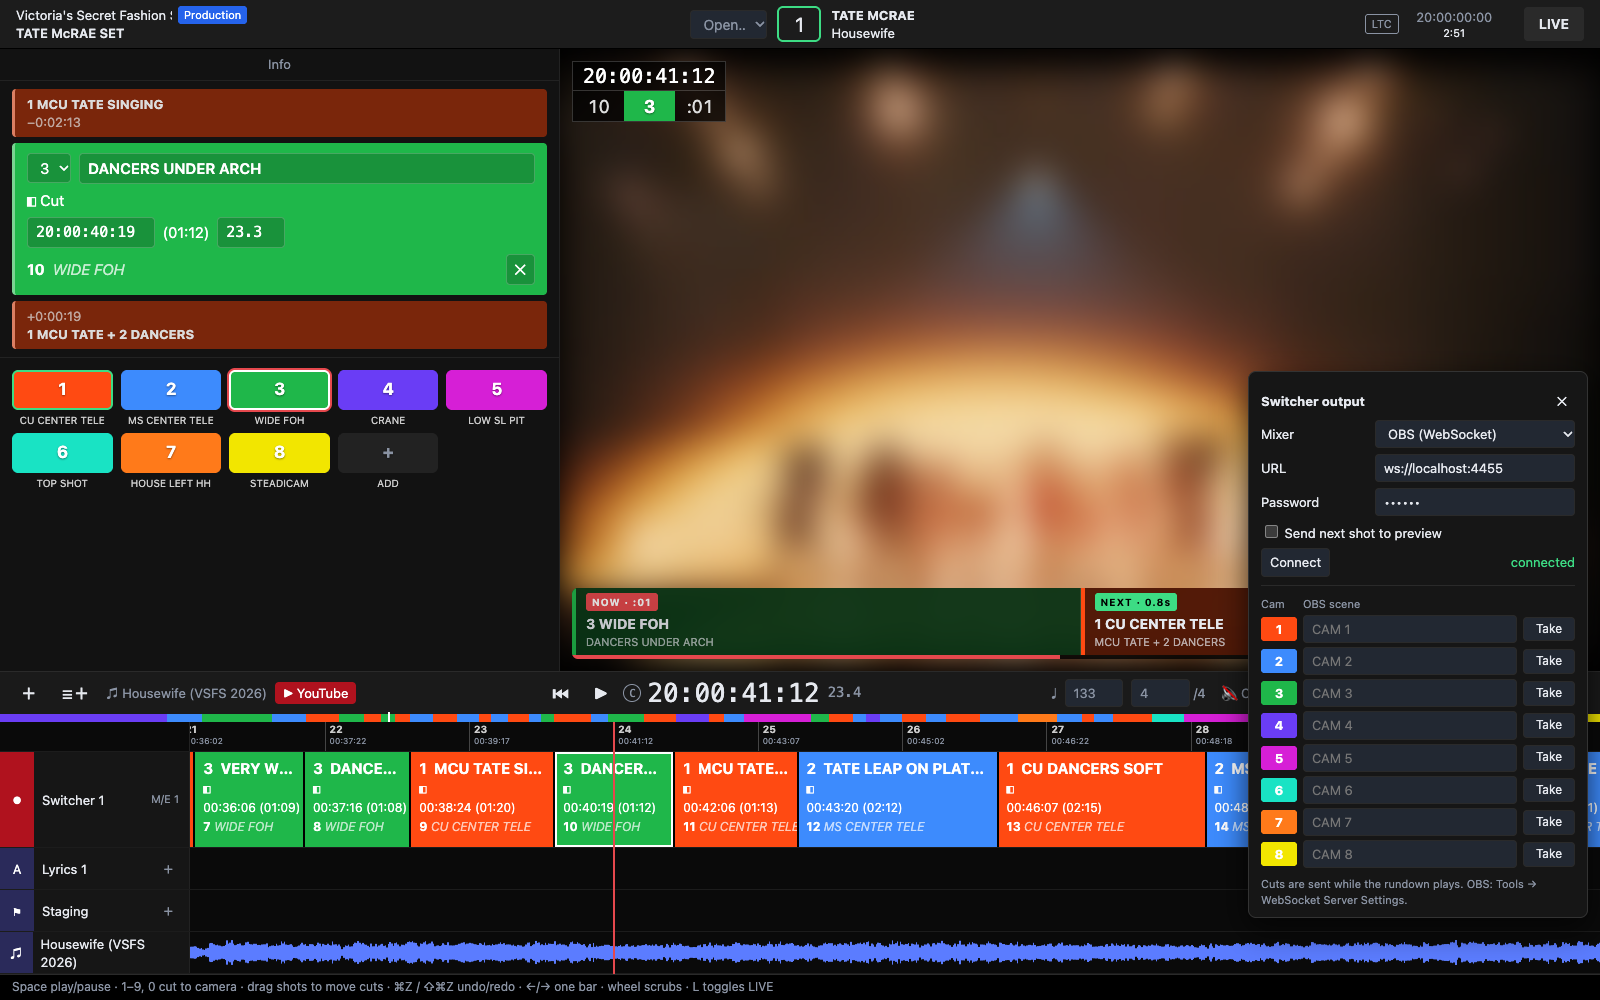
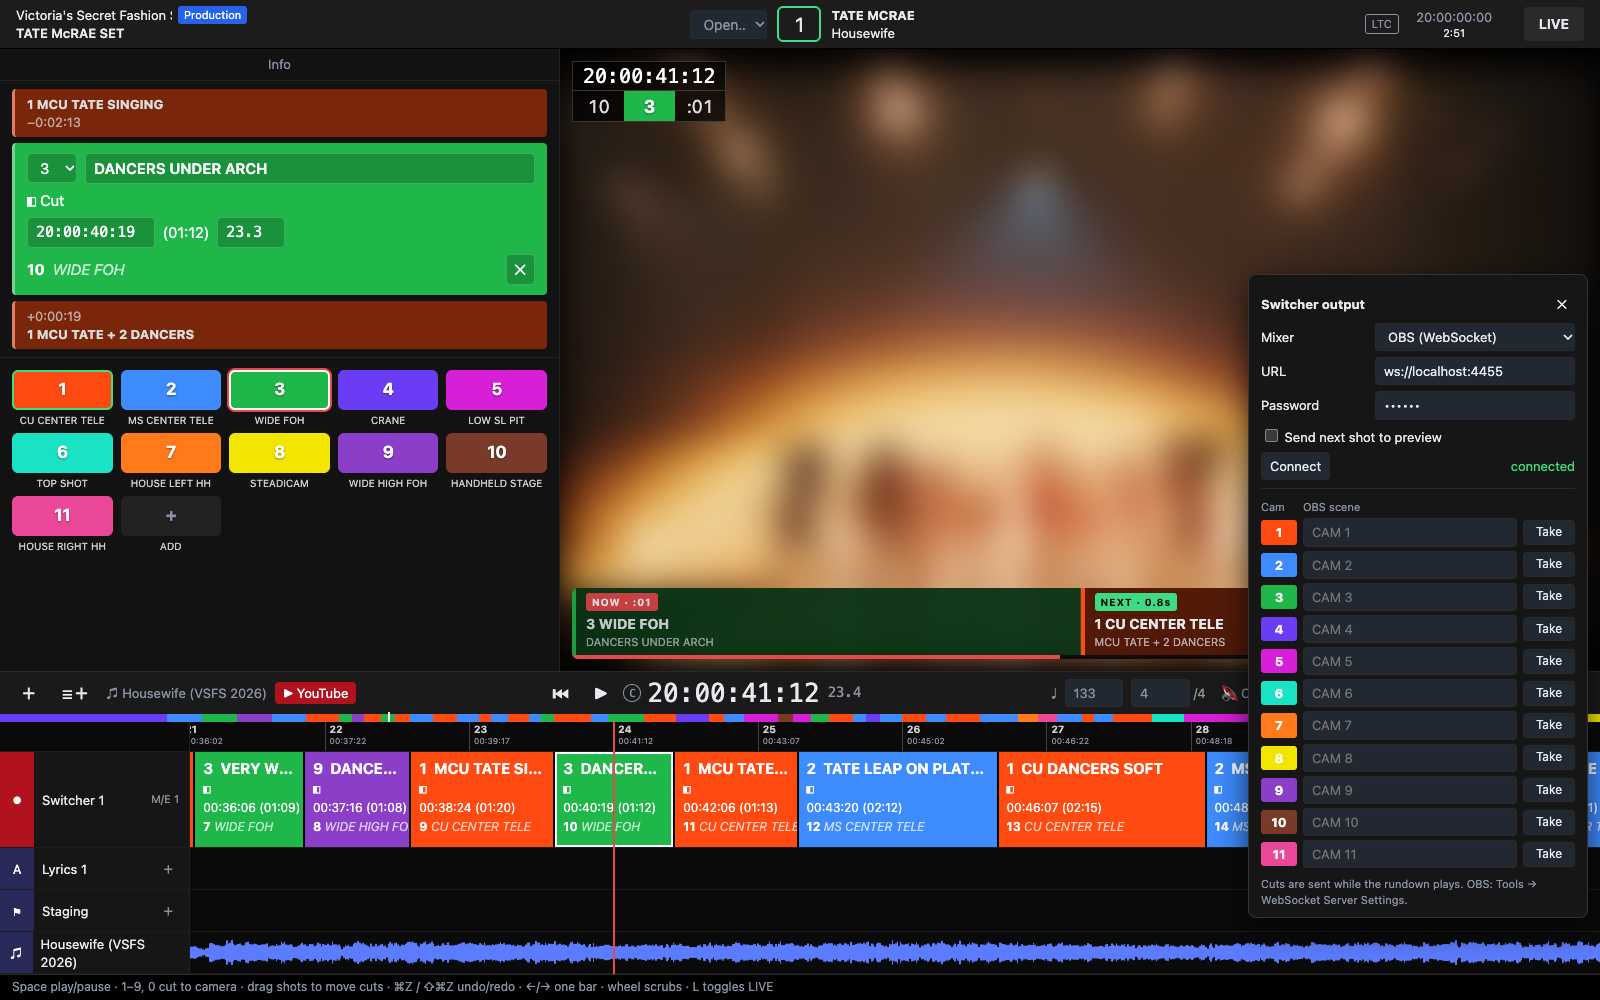
CuePilot-style camera operator view, sync fixes, Housewife camera fix
- operator view: full cut flow, camera countdown bar with optional
  spoken 3-2-1, own shots with repositioning time, sync indicator
- sync: director sends the media clock (keeps working in a background
  tab), followers glide instead of snapping, #cam changes reload
- Housewife: split five same-camera back-to-back cuts onto three new
  camera positions; self-check guards all bundled rundowns
- README: tablet screenshot of the new operator view

diff --git a/src/CamView.vue b/src/CamView.vue
@@ -1,60 +1,134 @@
 <script setup>
-import { computed } from 'vue'
-import { show, clock, cues, liveIdx, camOf, stc, secs } from './store'
+import { ref, computed, watch, onUnmounted } from 'vue'
+import { show, clock, cues, liveIdx, camOf, stc } from './store'
+import { link } from './sync'
 
+// Camera operator view (CuePilot-style): the whole cut flow on top, this camera's own shots below,
+// both on one sliding time axis, and a countdown bar to this camera's next cut in between.
 const props = defineProps({ cam: Number })
+const WINDOW = 16 // seconds across the bar area
+const ROWS = 9
+
 const me = computed(() => camOf(props.cam))
-const live = computed(() => cues.value[liveIdx.value])
+const all = computed(() => cues.value.map((c, i) => ({ ...c, no: i + 1 })))
+const live = computed(() => all.value[liveIdx.value])
+const flow = computed(() => all.value.slice(Math.max(0, liveIdx.value), Math.max(0, liveIdx.value) + ROWS))
+// my shots from the one on air (or the next) onwards, with repositioning time since my previous shot ended
+const mine = computed(() => {
+  const own = all.value.filter(c => c.cam === props.cam)
+  return own.map((c, i) => ({ ...c, gap: i ? c.start - own[i - 1].end : null })).filter(c => c.end > clock.now)
+})
 const onAir = computed(() => live.value?.cam === props.cam)
-// my upcoming shots, with their place in the whole cut list
-const mine = computed(() => cues.value.map((c, i) => ({ ...c, no: i + 1 })).filter((c, i) => i > liveIdx.value && c.cam === props.cam))
-const nextMine = computed(() => mine.value[0])
-const standby = computed(() => !onAir.value && nextMine.value?.no === liveIdx.value + 2)
-const state = computed(() => (onAir.value ? 'onair' : standby.value ? 'standby' : 'clear'))
-const shot = computed(() => (onAir.value ? live.value : nextMine.value))
-const timer = computed(() => (onAir.value ? live.value.end - clock.now : nextMine.value ? nextMine.value.start - clock.now : null))
+const nextMine = computed(() => mine.value.find(c => c.start > clock.now))
+const standby = computed(() => !onAir.value && nextMine.value && nextMine.value.no === liveIdx.value + 2)
+// big number: seconds left on air, otherwise seconds until my next cut
+const left = computed(() => (onAir.value ? live.value.end - clock.now : nextMine.value ? nextMine.value.start - clock.now : null))
+
+const pct = t => `${(t / WINDOW) * 100}%`
+const bar = c => ({ left: pct(Math.max(0, c.start - clock.now)), width: pct(Math.max(0, c.end - Math.max(c.start, clock.now))), background: camOf(c.cam).color })
+const dur = d => (d < 1 ? `${d.toFixed(1)}s` : d % 1 < 0.05 || d >= 10 ? `${Math.round(d)}s` : `${d.toFixed(1)}s`)
+const elapsed = t => `${Math.floor(t / 60)}:${String(Math.floor(t % 60)).padStart(2, '0')}`
+
+// sync status: green while the director's clock keeps arriving
+const tick = ref(performance.now())
+const timer = setInterval(() => (tick.value = performance.now()), 500)
+onUnmounted(() => clearInterval(timer))
+const connected = computed(() => tick.value - link.last < 1500)
+
+// optional spoken "3, 2, 1" before this camera's cuts; one voice, newest call wins
+const voice = ref(false)
+let lastN = null
+watch(left, t => {
+  const n = t == null ? null : Math.ceil(t)
+  if (voice.value && clock.playing && !onAir.value && n >= 1 && n <= 3 && n !== lastN) {
+    speechSynthesis.cancel()
+    speechSynthesis.speak(Object.assign(new SpeechSynthesisUtterance(String(n)), { rate: 1.2 }))
+  }
+  lastN = n
+})
 </script>
 
 <template>
-  <div class="cv" :class="state" :style="{ '--c': me.color }">
-    <div class="top">
-      <b class="num">{{ cam }}</b>
-      <div class="who"><b>{{ me.name }}</b><small>{{ show.artist }} – {{ show.title }}</small></div>
+  <div class="cv">
+    <header>
+      <span class="sno">{{ show.songNo }}</span>
+      <div class="song"><b>{{ show.title }}</b><small>{{ show.artist }}</small></div>
+      <span class="link" :class="{ ok: connected }" :title="connected ? 'Synced with director' : 'No director signal'">●</span>
+      <span class="tally" :class="{ onair: onAir, stby: standby }" :aria-label="onAir ? 'On air' : standby ? 'Standby' : 'Off air'">((•))</span>
+    </header>
+
+    <section class="flow" aria-label="Shot flow">
+      <div v-for="c in flow" :key="c.id" class="row" :class="{ live: c === live, mine: c.cam === cam }">
+        <span class="no">{{ c.no }}</span>
+        <span class="cam" :style="{ background: camOf(c.cam).color }">{{ c.cam }}</span>
+        <span class="txt"><i :style="bar(c)"></i><small>{{ dur(c.end - c.start) }}</small><b>{{ c.note || camOf(c.cam).name }}</b></span>
+      </div>
+    </section>
+
+    <div class="me" :class="{ onair: onAir, stby: standby }">
+      <button class="spk" :aria-pressed="voice" @click="voice = !voice" :title="voice ? 'Spoken countdown on' : 'Spoken countdown off'">{{ voice ? '🔊' : '🔈' }}</button>
+      <span class="mnum" :style="{ background: me.color }">{{ cam }}</span>
+      <span class="count">{{ left == null ? '—' : Math.ceil(left) }}</span>
+      <span class="track"><i :style="{ width: left == null ? 0 : pct(Math.min(left, WINDOW)) }"></i></span>
+      <span class="state">{{ onAir ? 'ON AIR' : standby ? 'STANDBY' : nextMine ? 'NEXT IN' : 'DONE' }}</span>
+    </div>
+
+    <section class="flow own" :aria-label="`Camera ${cam} shots`">
+      <div v-for="c in mine.slice(0, ROWS)" :key="c.id" class="row" :class="{ live: c === live }">
+        <span class="no">{{ c.no }}</span>
+        <span class="cam" :style="{ background: me.color }">{{ cam }}</span>
+        <span class="txt"><i :style="bar(c)"></i><small>{{ dur(c.end - c.start) }}<em v-if="c.gap != null">+{{ Math.round(c.gap) }}s</em></small><b>{{ c.note || me.name }}</b></span>
+      </div>
+      <p v-if="!mine.length" class="empty">No more shots for camera {{ cam }}.</p>
+    </section>
+
+    <footer>
+      <span class="play">{{ clock.playing ? '▶' : '❚❚' }}</span>
+      <span class="time">{{ elapsed(clock.now) }}</span>
+      <span class="prog"><i :style="{ width: (clock.now / show.duration) * 100 + '%' }"></i></span>
       <span class="tc">{{ stc(clock.now) }}</span>
-    </div>
-    <div class="tally">
-      <div class="state">{{ onAir ? 'ON AIR' : standby ? 'STANDBY · NEXT' : nextMine ? 'CLEAR' : 'DONE' }}</div>
-      <div class="timer" v-if="timer != null">{{ onAir ? 'OFF IN' : 'ON IN' }} {{ secs(timer) }}</div>
-      <div class="shot" v-if="shot">{{ shot.note || me.name }}</div>
-    </div>
-    <ol class="list" aria-label="Your upcoming shots">
-      <li v-for="c in mine.slice(onAir ? 0 : 1, 8)" :key="c.id">
-        <span class="no">{{ c.no }}</span><span class="in">{{ secs(c.start - clock.now) }}</span>
-        <span class="txt">{{ c.note || me.name }}</span><span class="dur">{{ secs(c.end - c.start) }}</span>
-      </li>
-    </ol>
+    </footer>
   </div>
 </template>
 
 <style scoped>
-.cv { height: 100%; display: flex; flex-direction: column; background: #0b0b0b; }
-.top { display: flex; align-items: center; gap: 12px; padding: 8px 16px; background: #161616; }
-.num { min-width: 56px; padding: 4px 10px; text-align: center; font-size: 32px; background: var(--c); color: #fff; text-shadow: 0 1px 2px #0006; border-radius: 4px; }
-.who { flex: 1; min-width: 0; display: flex; flex-direction: column; }
-.who b { font-size: 18px; }
-.who small { color: var(--dim); white-space: nowrap; overflow: hidden; text-overflow: ellipsis; }
-.tc { font: 18px ui-monospace, monospace; }
-.tally { flex: 1; display: grid; place-content: center; text-align: center; gap: 8px; padding: 16px; background: #1a1a1a; }
-.onair .tally { background: var(--red); }
-.standby .tally { background: #1f8a4c; }
-.state { font-size: clamp(36px, 12vw, 120px); font-weight: 800; letter-spacing: .04em; line-height: 1; }
-.timer { font-size: clamp(28px, 8vw, 72px); font-variant-numeric: tabular-nums; }
-.shot { font-size: clamp(16px, 4vw, 28px); text-transform: uppercase; opacity: .9; }
-.clear .state { color: #666; }
-.list { list-style: none; margin: 0; padding: 0; max-height: 40%; overflow: auto; }
-.list li { display: grid; grid-template-columns: 48px 64px 1fr 56px; align-items: center; height: 40px; border-bottom: 1px solid #222; font-size: 16px; text-transform: uppercase; }
-.list .no { text-align: right; padding-right: 10px; color: #999; }
-.list .in { text-align: right; padding-right: 12px; font-variant-numeric: tabular-nums; }
-.list .txt { white-space: nowrap; overflow: hidden; text-overflow: ellipsis; }
-.list .dur { text-align: right; padding-right: 12px; color: #999; }
+.cv { height: 100%; display: flex; flex-direction: column; background: #000; color: #eee; user-select: none; }
+header { display: flex; align-items: center; gap: 12px; padding: 8px 14px; background: #141414; flex: none; }
+.sno { font-size: 22px; color: #999; min-width: 28px; text-align: center; }
+.song { flex: 1; min-width: 0; display: flex; flex-direction: column; line-height: 1.2; }
+.song b { font-weight: 500; white-space: nowrap; overflow: hidden; text-overflow: ellipsis; }
+.song small { color: #999; }
+.link { color: #555; font-size: 14px; }
+.link.ok { color: #22c55e; }
+.tally { padding: 6px 10px; border-radius: 6px; background: #2a2a2a; color: #777; font-weight: 700; font-size: 13px; }
+.tally.onair { background: #ff1a1a; color: #fff; }
+.tally.stby { background: #16a34a; color: #fff; }
+.flow { flex: 1; min-height: 0; overflow: hidden; display: flex; flex-direction: column; gap: 3px; padding: 3px 0; }
+.row { display: grid; grid-template-columns: 44px 52px 1fr; min-height: 50px; flex: none; background: #2b2b2b; }
+.no { align-self: center; text-align: right; padding-right: 8px; color: #bbb; font-size: 14px; }
+.cam { display: grid; place-items: center; font-size: 22px; font-weight: 700; color: #fff; text-shadow: 0 1px 2px #0008; border-radius: 6px 0 0 6px; }
+.txt { position: relative; display: flex; flex-direction: column; justify-content: center; padding: 4px 8px; overflow: hidden; line-height: 1.25; }
+.txt i { position: absolute; top: 0; bottom: 0; opacity: .55; }
+.txt small, .txt b { position: relative; white-space: nowrap; overflow: hidden; text-overflow: ellipsis; }
+.txt small { font-size: 13px; color: #ddd; }
+.txt small em { font-style: normal; color: #aaa; margin-left: 28px; }
+.txt b { font-weight: 400; font-size: 15px; text-transform: uppercase; }
+.row.live .txt b { font-weight: 700; }
+.flow:not(.own) .row.mine { box-shadow: inset 0 0 0 2px #fff6; }
+.me { display: grid; grid-template-columns: 44px 52px 56px 1fr auto; align-items: center; height: 44px; flex: none; background: #333; }
+.me.stby { background: #16a34a; }
+.me.onair { background: #ff1a1a; }
+.spk { background: none; border: 0; font-size: 18px; padding: 0; }
+.mnum { height: 100%; display: grid; place-items: center; font-size: 22px; font-weight: 800; color: #fff; text-shadow: 0 1px 2px #0008; }
+.count { text-align: center; font-size: 28px; font-weight: 800; font-variant-numeric: tabular-nums; }
+.track { height: 26px; position: relative; }
+.track i { position: absolute; left: 0; top: 0; bottom: 0; background: #e8e8e8; }
+.state { padding: 0 12px; font-weight: 800; letter-spacing: .06em; font-size: 13px; }
+.empty { color: #777; text-align: center; margin: 16px; }
+footer { display: flex; align-items: center; gap: 12px; padding: 8px 14px; background: #141414; flex: none; }
+.play { color: #999; }
+.time { font-size: 20px; font-weight: 600; font-variant-numeric: tabular-nums; }
+.prog { flex: 1; height: 6px; background: #333; position: relative; }
+.prog i { position: absolute; left: 0; top: 0; bottom: 0; background: #7fb2e5; }
+.tc { font: 13px ui-monospace, monospace; color: #999; }
 </style>

diff --git a/src/sync.js b/src/sync.js
@@ -1,22 +1,30 @@
-import { watch } from 'vue'
-import { show, clock } from './store'
+import { reactive, watch } from 'vue'
+import { show, clock, audio } from './store'
 
 // LAN sync over Vite's dev-server websocket: the director window publishes the rundown and clock,
 // camera operator views follow. shortcut: dev-server only, last writer wins; a real show needs its own sync server
 const hot = import.meta.hot
 const plain = o => JSON.parse(JSON.stringify(o))
+export const link = reactive({ last: 0 }) // when a follower last heard the director (performance.now ms)
 
 export function publish() {
   if (!hot) return
   const sendShow = () => hot.send('rundown:show', plain(show))
   watch(show, sendShow, { deep: true })
   hot.on('rundown:hello', sendShow) // a camera view just connected
-  setInterval(() => hot.send('rundown:clock', { now: clock.now, playing: clock.playing }), 100)
+  // read the media clock directly: rAF (and so clock.now) stops while this window is in the background
+  setInterval(() => hot.send('rundown:clock', { now: audio.src ? audio.currentTime : clock.now, playing: clock.playing }), 100)
 }
 
 export function follow() {
   if (!hot) return
   hot.on('rundown:show', s => Object.assign(show, s))
-  hot.on('rundown:clock', c => Object.assign(clock, c))
+  hot.on('rundown:clock', c => {
+    link.last = performance.now()
+    clock.playing = c.playing
+    // glide toward the director's time while playing instead of snapping back every 100ms; jump on seeks
+    const drift = c.now - clock.now
+    clock.now = c.playing && Math.abs(drift) < 0.25 ? clock.now + drift * 0.3 : c.now
+  })
   hot.send('rundown:hello')
 }

diff --git a/src/store.js b/src/store.js
@@ -151,6 +151,11 @@ export function redo() { if (hist.future.length) { hist.past.push(hist.cur); res
 // saved rundowns: every src/shows/*.json plus the demo
 const files = import.meta.glob('./shows/*.json', { eager: true, import: 'default' })
 export const rundowns = { Demo: demo, ...Object.fromEntries(Object.values(files).map(s => [`${s.artist} – ${s.title}`, s])) }
+// self-check: a camera can't cut to itself live, so no rundown may put one shot of a camera right after another
+for (const [name, r] of Object.entries(rundowns)) {
+  const c = [...r.cues].sort((a, b) => a.start - b.start)
+  console.assert(c.every((q, i) => !i || q.cam !== c[i - 1].cam), `${name}: same camera cut back to back`)
+}
 export function loadShow(name) {
   pause()
   audio.removeAttribute('src'); audio.load()

diff --git a/src/App.vue b/src/App.vue
@@ -9,6 +9,7 @@ import CamView from './CamView.vue'
 const link = new URLSearchParams(location.hash.slice(1))
 const cam = +link.get('cam') || null
 const view = ref(link.has('live') ? 'live' : 'rundown')
+addEventListener('hashchange', () => location.reload()) // deep links are read once at startup
 if (cam) follow()
 else {
   publish()

diff --git a/README.md b/README.md
@@ -18,9 +18,15 @@ All screenshots show the example rundown for Tate McRae's "Housewife" ([see belo
 
 ![LIVE view](docs/live.png)
 
-**Camera operator view** (`/#cam=5` on a phone): the tally follows the director's window live. It's red while on air, green on standby and dark when clear, with the operator's upcoming shots underneath.
+**Camera operator view** (`/#cam=5` on a tablet, CuePilot-style):
 
-<img src="docs/camera.png" alt="Camera operator view on a phone, showing ON AIR" width="280">
+- **Top:** the whole cut flow.
+- **Middle:** this camera's bar, red on air and green on standby, with a big countdown.
+- **Below:** only this camera's shots on the same sliding time axis, with the time to reposition between them (`+40s`).
+
+It follows the director's window live.
+
+<img src="docs/camera.png" alt="Camera operator view on a tablet, camera 5 on air" width="420">
 
 <sub>Video frames (blurred): Tate McRae – 2026 Victoria's Secret Fashion Show Performance, © 2026 RCA Records / Sony Music Entertainment. Shown for illustration only.</sub>
 
@@ -35,7 +41,7 @@ All screenshots show the example rundown for Tate McRae's "Housewife" ([see belo
   - a countdown for every camera to its next shot
   - a program monitor with a timecode/shot overlay and a NOW/NEXT bar with a progress bar
   - a draggable divider between the list and the video
-- **Camera operator view**: `/#cam=3` on a phone or tablet shows one operator's tally (ON AIR / STANDBY · NEXT / CLEAR), a countdown and their upcoming shots, synced live from the director's window.
+- **Camera operator view**: `/#cam=3` on a tablet or phone shows the cut flow, this camera's countdown bar (ON AIR / STANDBY / NEXT IN) and its own shots with repositioning time. It has an optional spoken "3, 2, 1" and a sync indicator, and follows the director's window live.
 - **Switcher output**: sends the planned cuts to **OBS** (WebSocket v5, with password) or **vMix** (HTTP API) while the rundown plays, and optionally the next shot to preview.
 - **Caller**: a spoken PA call at each cut ("Five. Next, three.") and a "3, 2, 1" count before longer shots, one voice at a time.
 - **Media**: load a local audio file or a reference video. The video drives the show clock, so picture and UI never drift apart.
